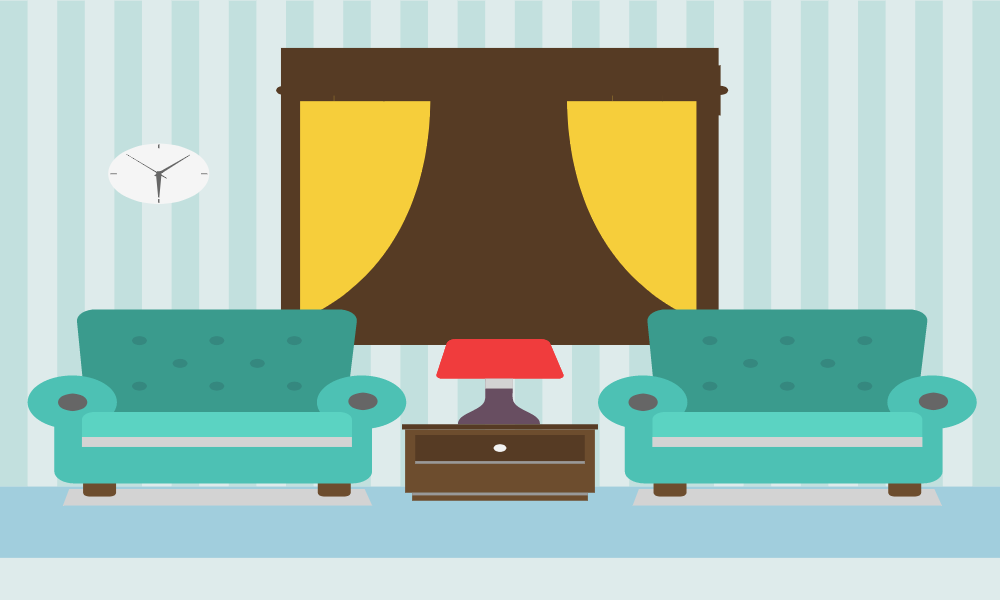
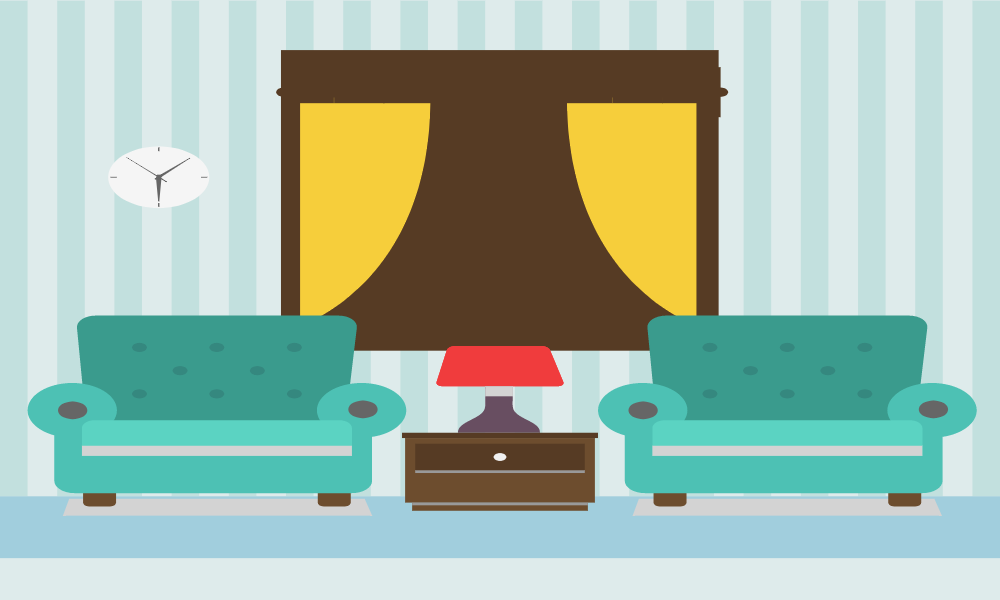
updated css

diff --git a/public/index.html b/public/index.html
@@ -14,36 +14,51 @@
 </head>
 
 <body>
-    <nav role="navigation" clas=".col-12">
-        <div class="logo">
-            <h1>
-                <a href="index.html">bunky</a>
-            </h1>
-        </div>
-        <div class="menu">
-            <a href="dashboard.html">Dashboard</a>
+    <nav role="navigation" class="row">
+        <div class=".col-12">
+            <div class="logo">
+                <h1>
+                    <a href="index.html">bunky</a>
+                </h1>
+            </div>
+            <div class="menu">
+                <a href="dashboard.html">Dashboard</a>
+            </div>
         </div>
     </nav>
-<!-- class=".col-12" -->
-    <main role="main" class="main">
 
-        <div class="couches .col-12">
-            <img src="./imgs/twochairs.jpg" class="chair" alt="two chair image">
-            <h3 class="top-left">connecting people together under one roof</h3>
+    <main role="main" class="main">
+        <div class="row">
+            <div class="couches .col-12">
+                <img src="./imgs/twochairs.jpg" class="chair" alt="two chair image">
+                <h3 class="top-left">connecting people together under one roof</h3>
+            </div>
+        </div>
+
+        <div class="row space">
+
+            <div class=".col-6">
+                <div class="bullets">
+                    <h3>---bunky: finding your perfect roommate---</h3>
+                    <ul>
+                        <li type="square">add their contact information</li>
+                        <li type="square">know what their budget is</li>
+                        <li type="square">understand how many roommates they are open to</li>
+                        <li type="square">take out prospects from your dashboard</li>
+                    </ul>
+                </div>
+            </div>
+
+            <div class=".col-6">
+                <div class="sample">
+                    <p>Use your dashboard to list yourprospects</p>
+                    <img src="./imgs/bunky.png" class="bunky" alt="bunky listing">
+                </div>
+            </div>
 
         </div>
 
-        <div class="space .col-12">
-            <h3>---bunky: finding your perfect roommate---</h3>
-            <p>bunky is a platform to track prospective roommates</p>
-
-            <ul>
-                <li type="square">add their contact information</li>
-                <li type="square">know what their budget is</li>
-                <li type="square">understanding how many roommates they are open too</li>
-                <li type="square">see if they're looking for the right space as your are</li>
-            </ul>
-
+        <div class="start .col-12">
             <p>Click here to try it out!</p>
             <form class="get-started">
                 <button class="homebtn" id="myBtn" type="submit" formaction="dashboard.html">Get Started</button>

diff --git a/public/main.css b/public/main.css
@@ -33,11 +33,11 @@ nav {
 
  h3 {
      position: relative;
-     margin-top: 30px;
+     margin-bottom: 20px;
  }
 
  p {
-     margin-top: 20px;
+     /* margin-top: 20px; */
  }
 
 
@@ -50,7 +50,7 @@ main {
 
 .couches {
     width: 100%;
-    height: 600px; 
+    /* height: 600px;  */
     position: relative;
     text-align: center;
     margin-left: auto;
@@ -68,15 +68,42 @@ main {
 
 
 .space {
-    display: block;
-    position: absolute;
-    height: 500px;
-    margin-left: auto;
+    /* display: inline-block; */
+    position: relative;
+    padding: 20px;
+    /* height: 500px; */
+    /* margin-left: auto;
     margin-right: auto;
     text-align: center;
     right: 0;
+    left: 0; */
+    /* padding-top: 50px; */
+
+}
+
+.bullets {
+    /* border: 1px solid grey; */
+    padding: 20px;
+    border-radius: 8px;
+    width: 50%;
+    margin-left: auto;
+    margin-right: auto;
+
+}
+
+.start{
+    display: block;
+    position: relative;
+    height: 200px;
+    text-align: center;
+    right: 0;
     left: 0;
-    padding-top: 50px;
+}
+
+.sample {
+    margin-top: 20px;
+    padding: 20px;
+    text-align: center;
 
 }
 
@@ -109,6 +136,10 @@ a:link {
 
 a, a:visited, a:hover, a:active {
     color: inherit;
+}
+.bunky {
+    margin-top: 20px;
+    width: 75%;
 }
 
 
